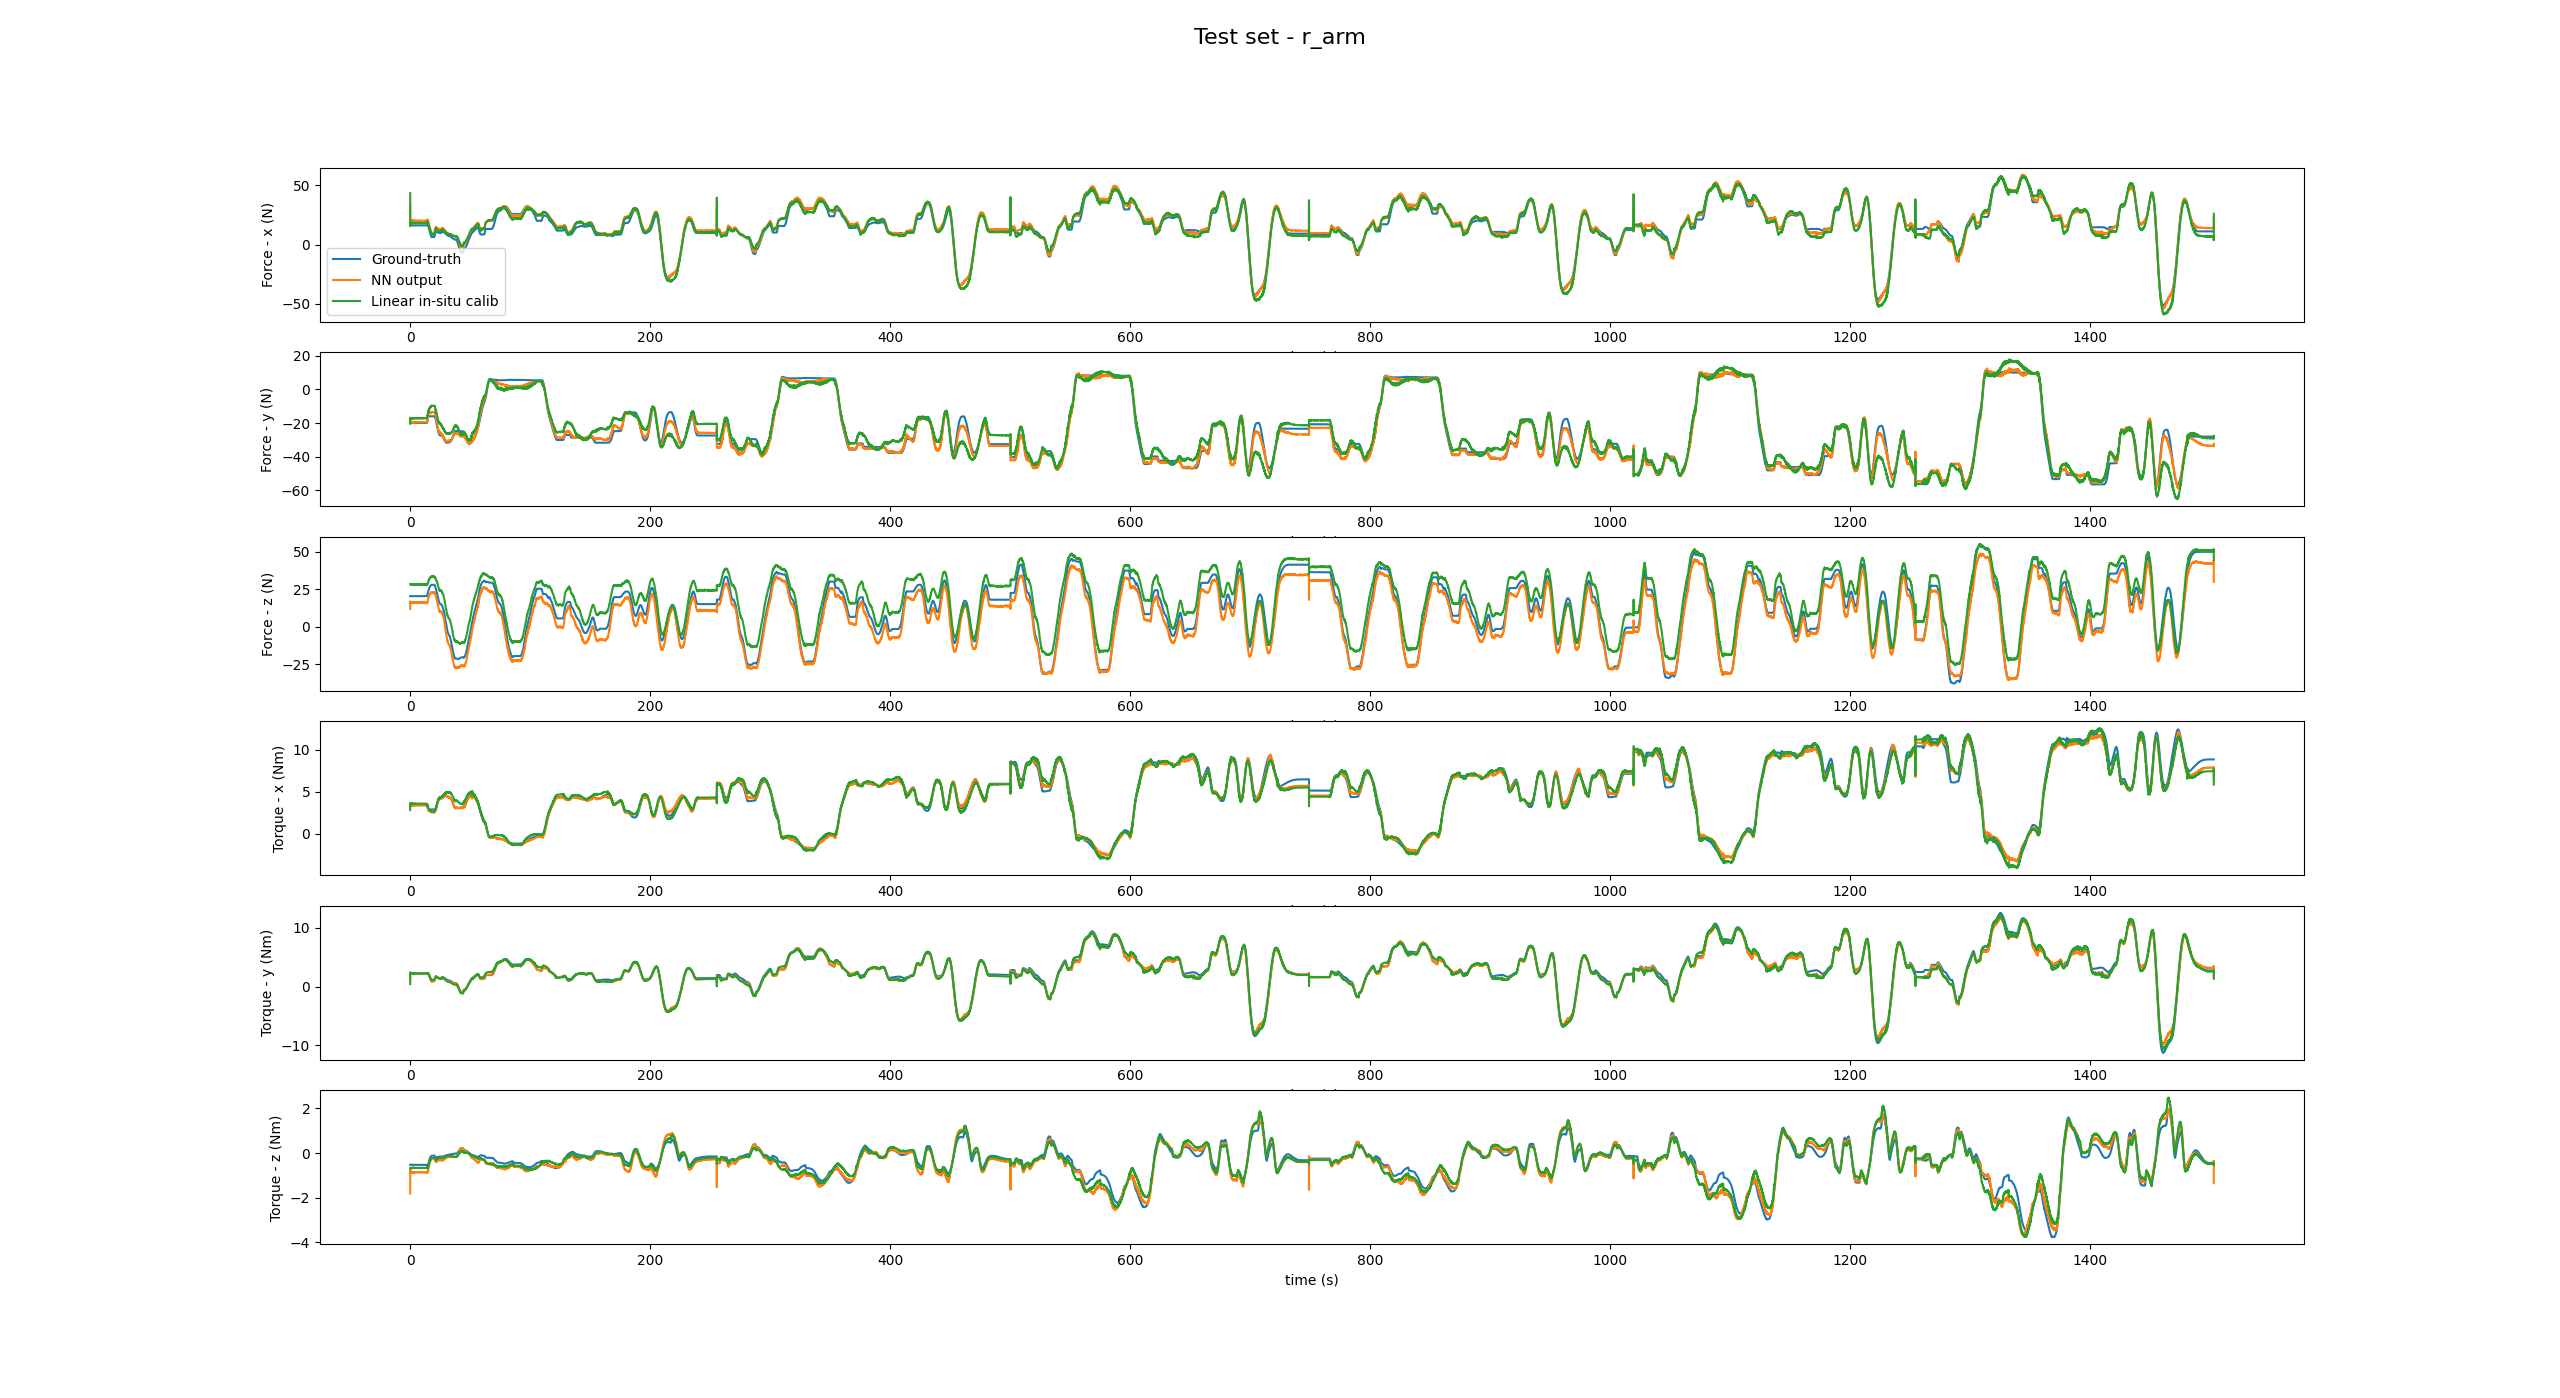
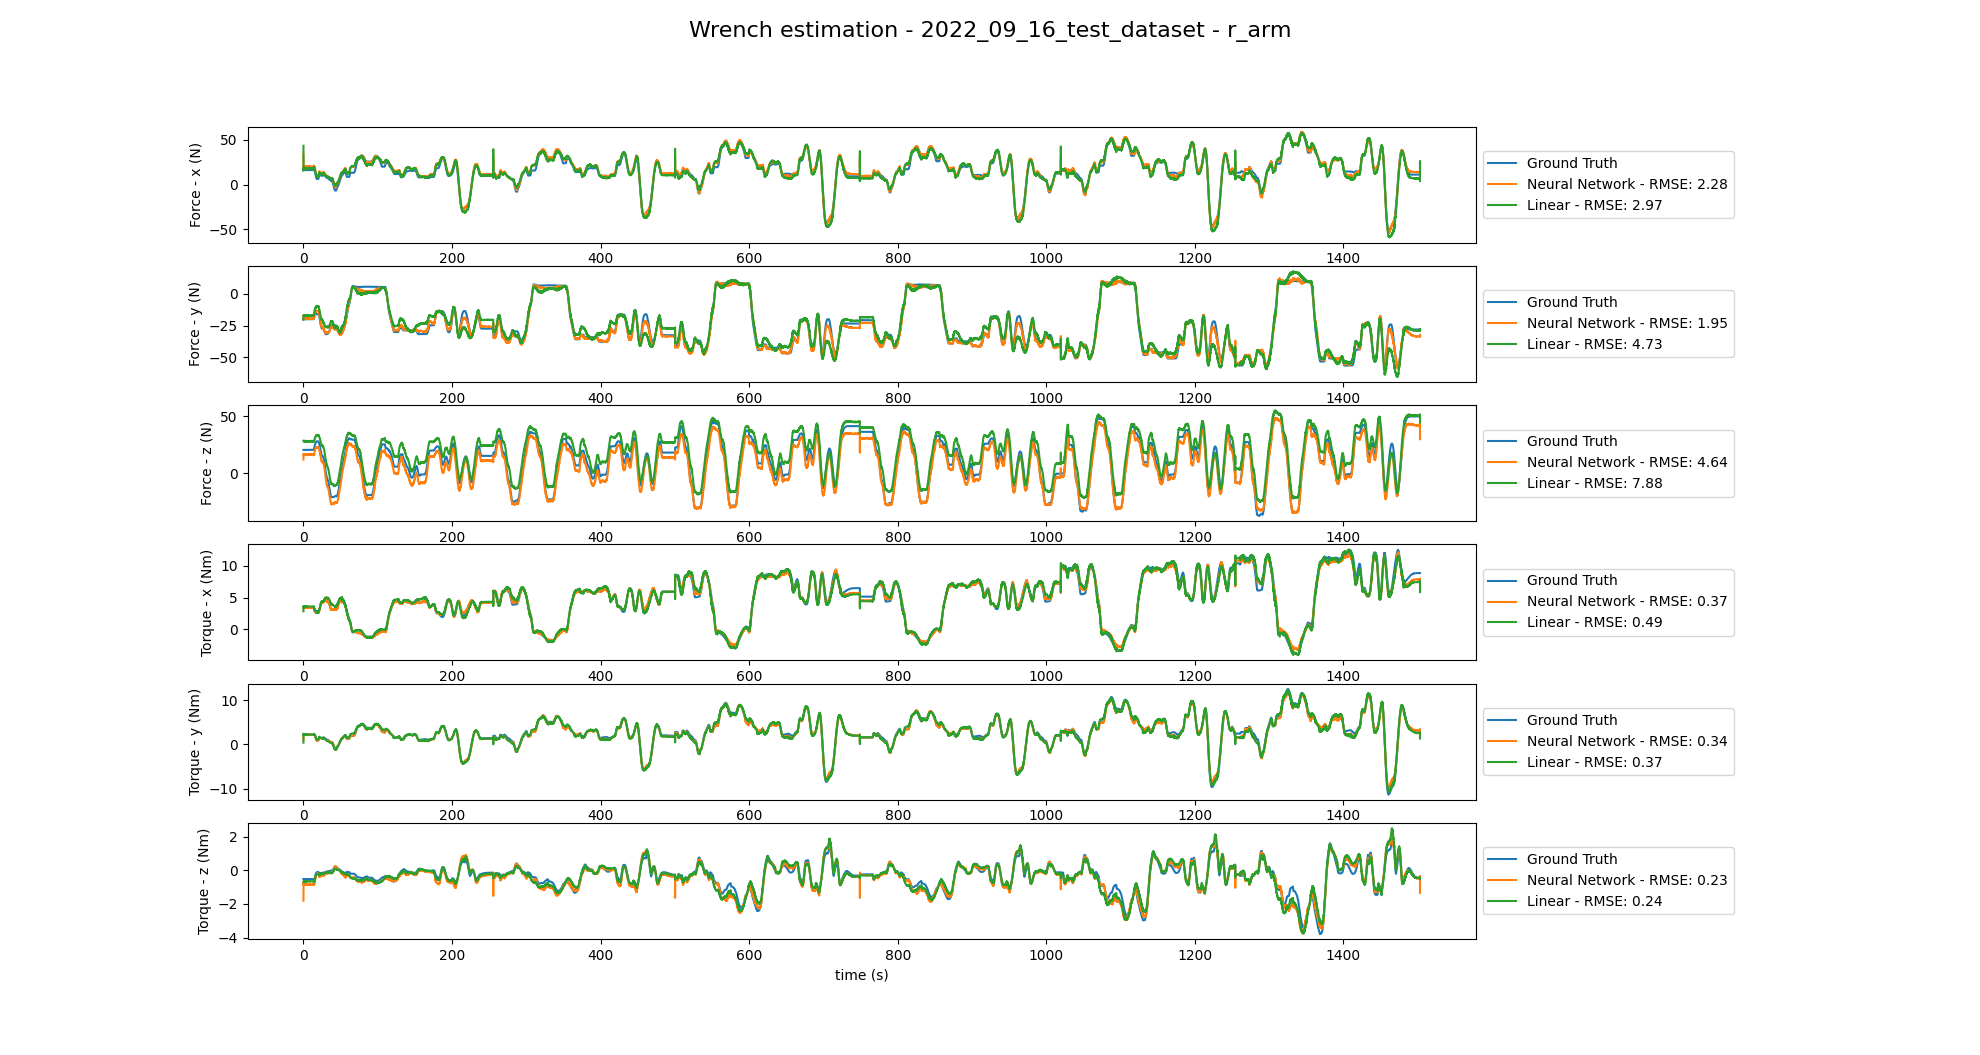
Add wrench estimation RMSE

diff --git a/python/evaluate_net.py b/python/evaluate_net.py
@@ -1,4 +1,5 @@
 import h5py
+import math
 import pickle
 import numpy as np
 from tensorflow import keras
@@ -91,28 +92,39 @@ if __name__ == "__main__":
             ax[i].plot(
                 np.array(range(len(predict_dataset[:, i]))) * 0.01,
                 dataset["ft_expected"][:, i],
-                label="Ground-truth",
+                label="Ground Truth",
             )
+
+            # Compute RMSE for the neural network
+            MSE_nn = np.square(np.subtract(predict_dataset[:, i], dataset["ft_expected"][:, i])).mean()
+            RMSE_nn = math.sqrt(MSE_nn)
 
             ax[i].plot(
                 np.array(range(len(predict_dataset[:, i]))) * 0.01,
                 predict_dataset[:, i],
-                label="NN output",
+                label="Neural Network - RMSE: " + str(round(RMSE_nn,2)),
             )
+
+            # Compute RMSE for the linear model
+            MSE_lin = np.square(np.subtract(prev_predict[:, i], dataset["ft_expected"][:, i])).mean()
+            RMSE_lin = math.sqrt(MSE_lin)
 
             ax[i].plot(
                 np.array(range(len(predict_dataset[:, i]))) * 0.01,
                 prev_predict[:, i],
-                label="Linear in-situ calib",
+                label="Linear - RMSE: " + str(round(RMSE_lin, 2)),
             )
 
-            if i == 0:
-                ax[i].legend()
+            # Shrink current axis by 20% and put the legend to the right
+            box = ax[i].get_position()
+            ax[i].set_position([box.x0, box.y0, box.width * 0.8, box.height])
+            ax[i].legend(loc='center left', bbox_to_anchor=(1, 0.5))
+
             ax[i].set_xlabel("time (s)")
             ax[i].set_ylabel(titles[i])
             ax[1].grid()
 
-        fig.suptitle("Test set - " + part, fontsize=16)
+        fig.suptitle("Wrench estimation - " + test_dataset + " - " + part , fontsize=16)
         manager = plt.get_current_fig_manager()
         manager.full_screen_toggle()
         plt.show()
@@ -129,28 +141,27 @@ if __name__ == "__main__":
         ft_filtered_insitu[:, 0] = filtfilt(b, a, prev_predict[:, 0])
         ft_filtered_insitu[:, 1] = filtfilt(b, a, prev_predict[:, 1])
         ft_filtered_insitu[:, 2] = filtfilt(b, a, prev_predict[:, 2])
-
         b, a = butter(2, 0.0003, btype='low', analog=False)
         # b, a = butter(2, 0.9999, btype='low', analog=False)
         fig = plt.figure()
         plt.plot(np.array(range(len(predict_dataset[:, 0]))) * 0.01,
                  np.linalg.norm(dataset["ft_expected"][:, :3], axis=1) / 9.80665 - 3.5 + 0.165,
-                 label="Ground-truth")
+                 label="Ground Truth")
         plt.plot(np.array(range(len(predict_dataset[:, 0]))) * 0.01,
                  filtfilt(b, a, np.linalg.norm(ft_filtered_NN, axis=1) / 9.80665 - 3.5 + 0.165),
-                 label="NN")
+                 label="Neural Network")
         plt.plot(np.array(range(len(predict_dataset[:, 0]))) * 0.01,
                  filtfilt(b, a, np.linalg.norm(ft_filtered_insitu, axis=1) / 9.80665 - 3.5 + 0.165),
-                 label="Linear in-situ calib")
+                 label="Linear")
         plt.xlabel("time (s)")
         plt.ylabel("norm(f) / g")
+        fig.suptitle("Weight estimation - " + test_dataset + " - " + part , fontsize=16)
         plt.grid()
         plt.legend()
         manager = plt.get_current_fig_manager()
         manager.full_screen_toggle()
         plt.show()
         fig.savefig("../figures/fig2_"+test_dataset+"_"+model_specification+".png")
-
 
         fig, ax = plt.subplots(6)
         for i in range(6):
@@ -165,13 +176,13 @@ if __name__ == "__main__":
             ax[i].plot(
                 np.array(range(len(predict_dataset[:, i]))) * 0.01,
                 np.abs(predict_dataset[:, i] - dataset["ft_expected"][:, i]),
-                label="NN output",
+                label="Neural Network",
             )
 
             ax[i].plot(
                 np.array(range(len(predict_dataset[:, i]))) * 0.01,
                 np.abs(prev_predict[:, i] - dataset["ft_expected"][:, i]),
-                label="Linear in-situ calib",
+                label="Linear",
             )
 
             if i == 0:
@@ -181,7 +192,7 @@ if __name__ == "__main__":
             ax[i].set_ylabel(titles[i])
             ax[1].grid()
 
-        fig.suptitle("Error Test set - " + part, fontsize=16)
+        fig.suptitle("Wrench estimation error - " + test_dataset + " - " + part , fontsize=16)
         manager = plt.get_current_fig_manager()
         manager.full_screen_toggle()
         plt.show()
